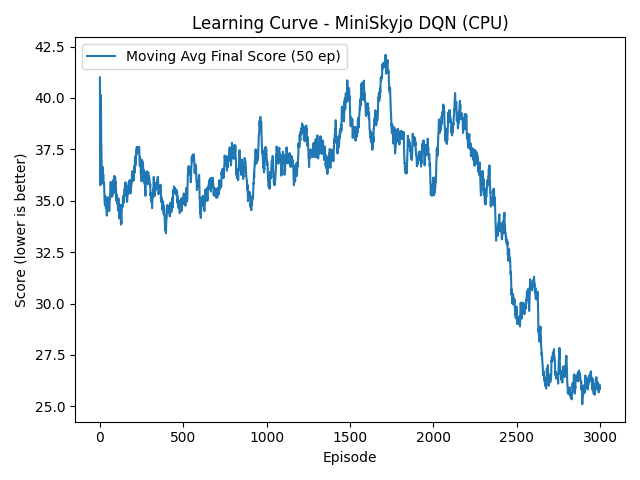
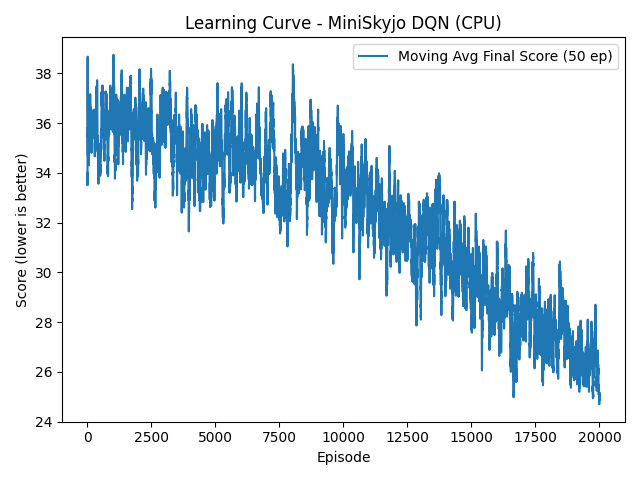
Amelioration code

diff --git a/train_mini_skyjo.py b/train_mini_skyjo.py
@@ -320,9 +320,9 @@ def select_action(qnet: DuelingQNet, obs: np.ndarray, n_actions: int, epsilon: f
             q = q + 0.01 * torch.randn_like(q)  # petit bruit
         return int(torch.argmax(q).item())
 
-def train_dqn(episodes=3000, buffer_capacity=100000, batch_size=256, gamma=0.995,
+def train_dqn(episodes=20000, buffer_capacity=100000, batch_size=256, gamma=0.995,
               lr=3e-4, target_update=500, start_learning=1000, epsilon_start=1.0,
-              epsilon_end=0.15, epsilon_decay_steps=50000, eval_every=200,
+              epsilon_end=0.15, epsilon_decay_steps=300000, eval_every=1000,
               model_path="model.pt", metrics_path="metrics.csv"):
     env = MiniSkyjoEnv(seed=123)
     obs = env.reset()
@@ -339,6 +339,7 @@ def train_dqn(episodes=3000, buffer_capacity=100000, batch_size=256, gamma=0.995
 
     global_step = 0
     epsilon = epsilon_start
+    best_avg_score = 1000
 
     # Metrics
     ep_rewards = []
@@ -412,6 +413,10 @@ def train_dqn(episodes=3000, buffer_capacity=100000, batch_size=256, gamma=0.995
 
         if ep % eval_every == 0:
             print(f"[Episode {ep:5d}] avg_score(last50)={moving[-1]:.2f}  epsilon={epsilon:.3f}  avg_steps(last50)={moving_steps[-1]:.2f} ")
+            if moving[-1] < best_avg_score:
+                best_avg_score =  moving[-1]
+                torch.save(q.state_dict(), model_path)
+                print(f"Saved model to {model_path}")
 
     # Save model
     torch.save(q.state_dict(), model_path)
@@ -483,19 +488,68 @@ def demo(model_path="model.pt", seed=999):
         print(f"Final score: {info['final_score']}  (exchanges={info['exchanges']})")
 
 
+def evaluate(model_path="model.pt", episodes=1000):
+    env = MiniSkyjoEnv()
+    obs = env.reset()
+    obs_dim = obs.shape[0]
+    n_actions = 12
+
+    # Charger le modèle
+    q = DuelingQNet(obs_dim, n_actions)   # ou QNet si tu n’as pas encore switché
+    q.load_state_dict(torch.load(model_path, map_location="cpu"))
+    q.eval()
+
+    scores = []
+    steps_list = []
+
+    for ep in tqdm(range(episodes)):
+        obs = env.reset()
+        done = False
+        steps = 0
+        final_score = None
+
+        while not done:
+            with torch.no_grad():
+                x = torch.tensor(obs, dtype=torch.float32).unsqueeze(0)
+                q_values = q(x).squeeze(0)
+                action = int(torch.argmax(q_values).item())  # greedy policy
+
+            obs, reward, done, info = env.step(action)
+            steps += 1
+
+            if done and "final_score" in info:
+                final_score = info["final_score"]
+
+        scores.append(final_score)
+        steps_list.append(steps)
+
+    avg_score = sum(scores) / len(scores)
+    avg_steps = sum(steps_list) / len(steps_list)
+
+    print(f"Evaluation over {episodes} games:")
+    print(f"  Average score: {avg_score:.2f}")
+    print(f"  Average steps: {avg_steps:.2f}")
+
+    return {"avg_score": avg_score, "avg_steps": avg_steps, "scores": scores, "steps": steps_list}
+
+
 def main():
     parser = argparse.ArgumentParser()
     parser.add_argument("--train", action="store_true", help="Train DQN on CPU")
-    parser.add_argument("--episodes", type=int, default=3000, help="Number of training episodes")
+    parser.add_argument("--episodes", type=int, default=20000, help="Number of training episodes")
     parser.add_argument("--demo", action="store_true", help="Run a terminal demo with the trained model")
     parser.add_argument("--model_path", type=str, default="model.pt", help="Path to save/load the model")
     parser.add_argument("--metrics_path", type=str, default="metrics.csv", help="CSV metrics path")
+    parser.add_argument("--eval", action="store_true", help="Evaluate a trained model")
+    parser.add_argument("--eval_episodes", type=int, default=1000, help="Number of eval episodes")
     args = parser.parse_args()
 
     if args.train:
         train_dqn(episodes=args.episodes, model_path=args.model_path, metrics_path=args.metrics_path)
     if args.demo:
         demo(model_path=args.model_path)
+    if args.eval:
+        evaluate(model_path=args.model_path, episodes=args.eval_episodes)
 
 
 if __name__ == "__main__":
